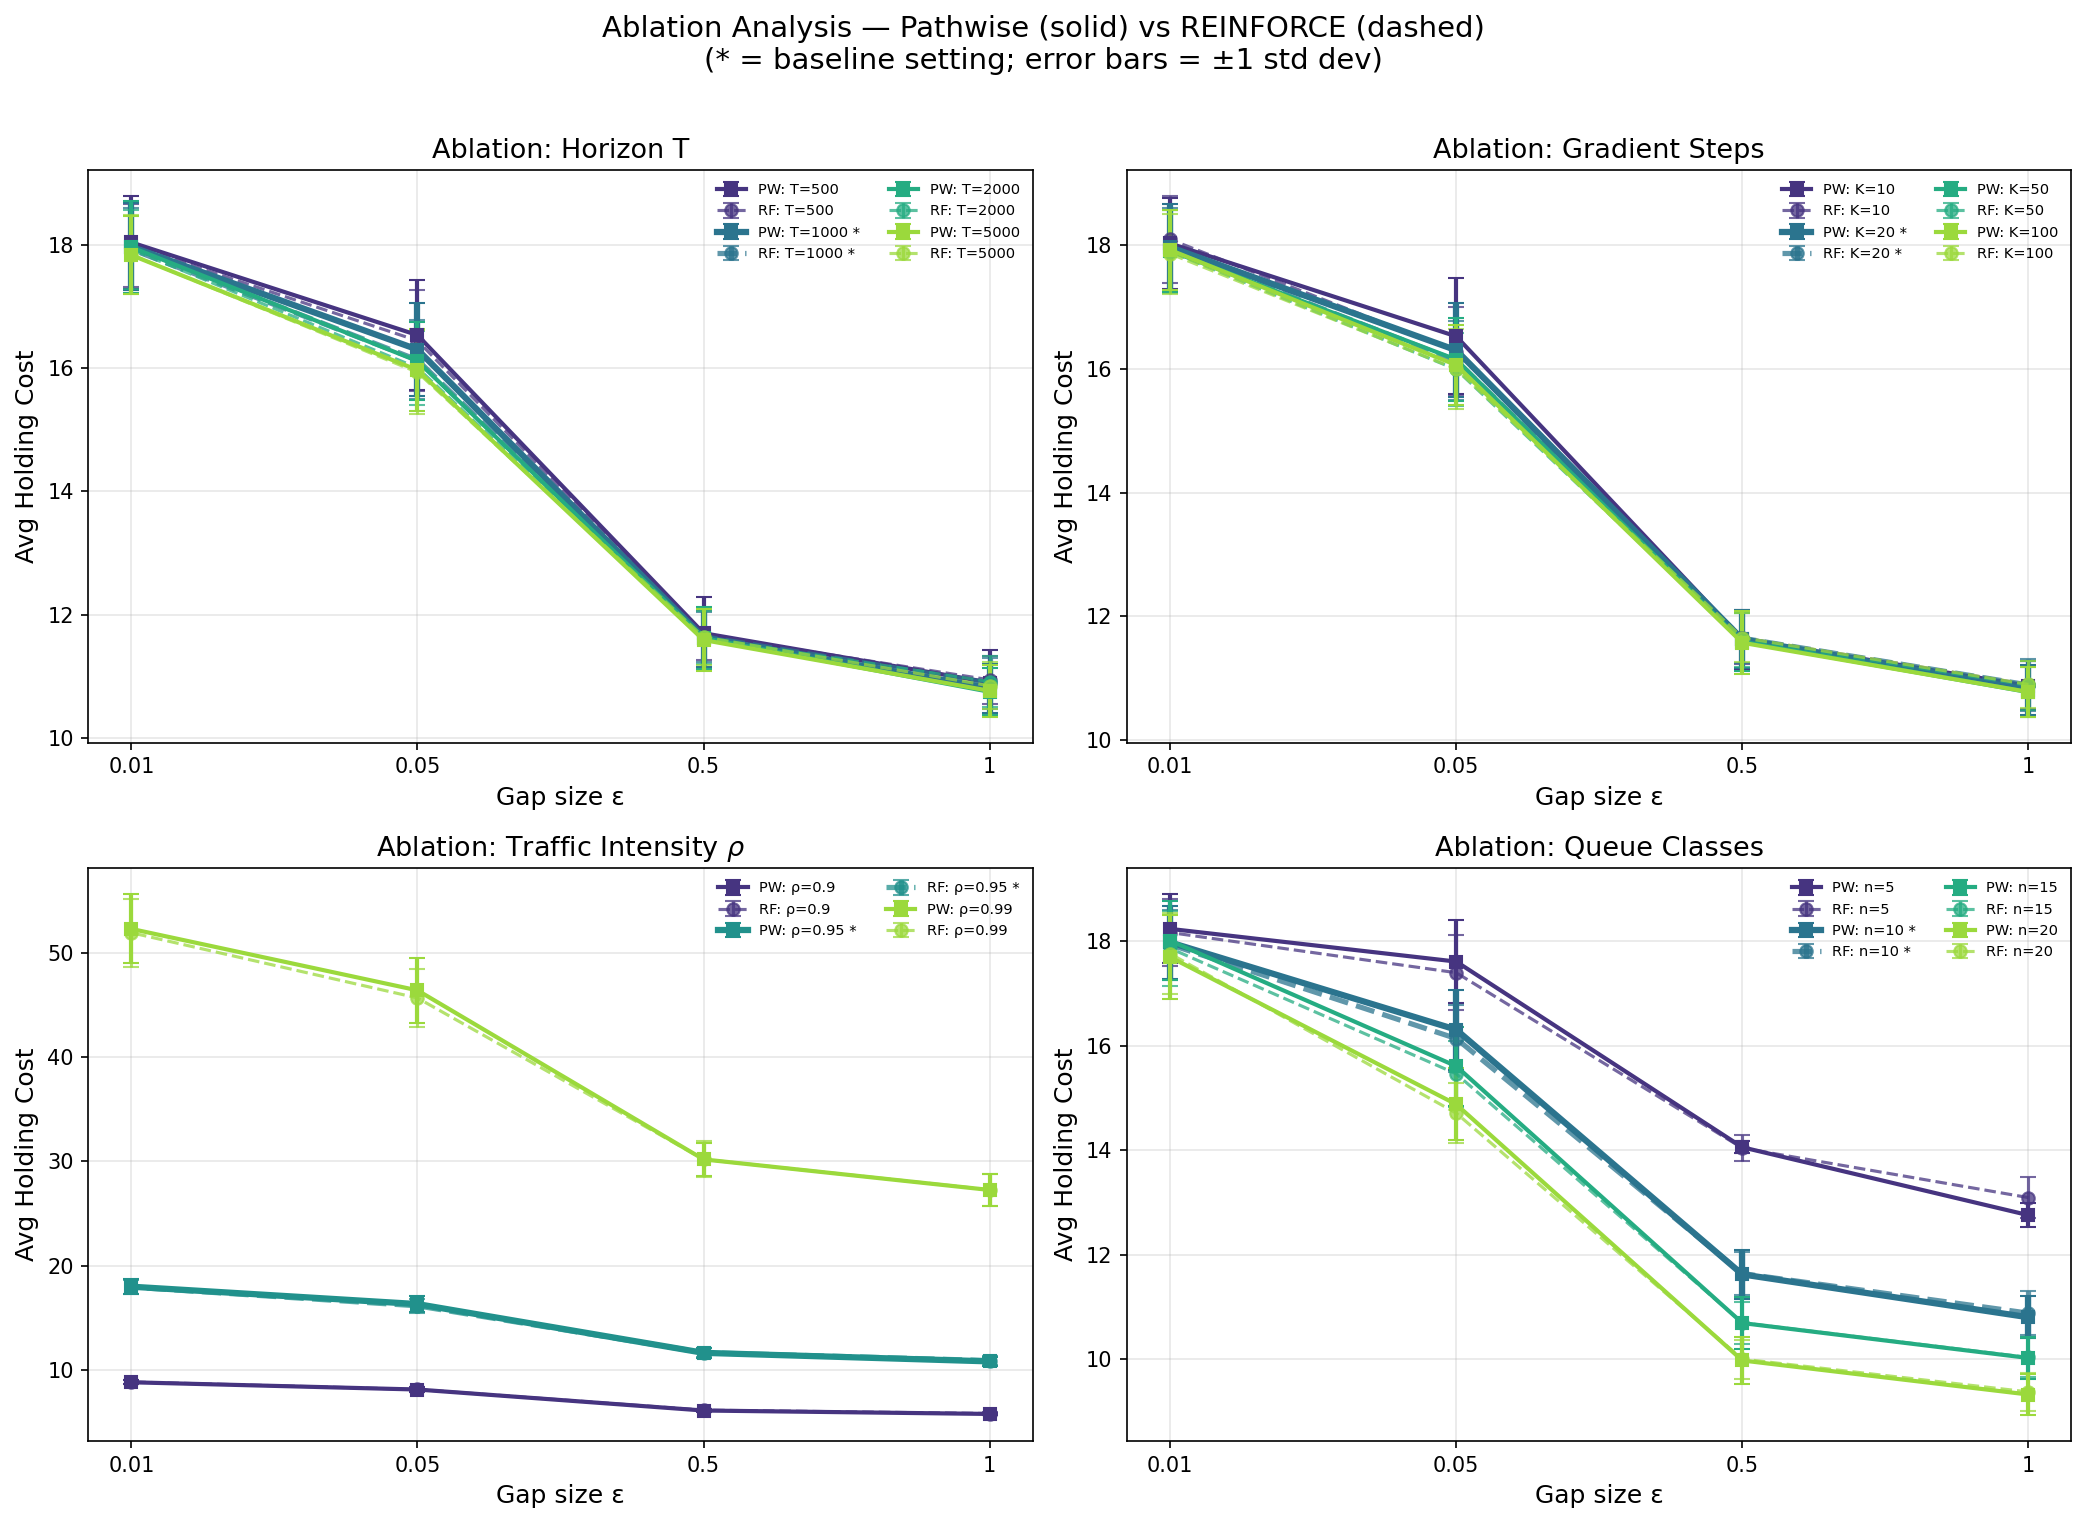
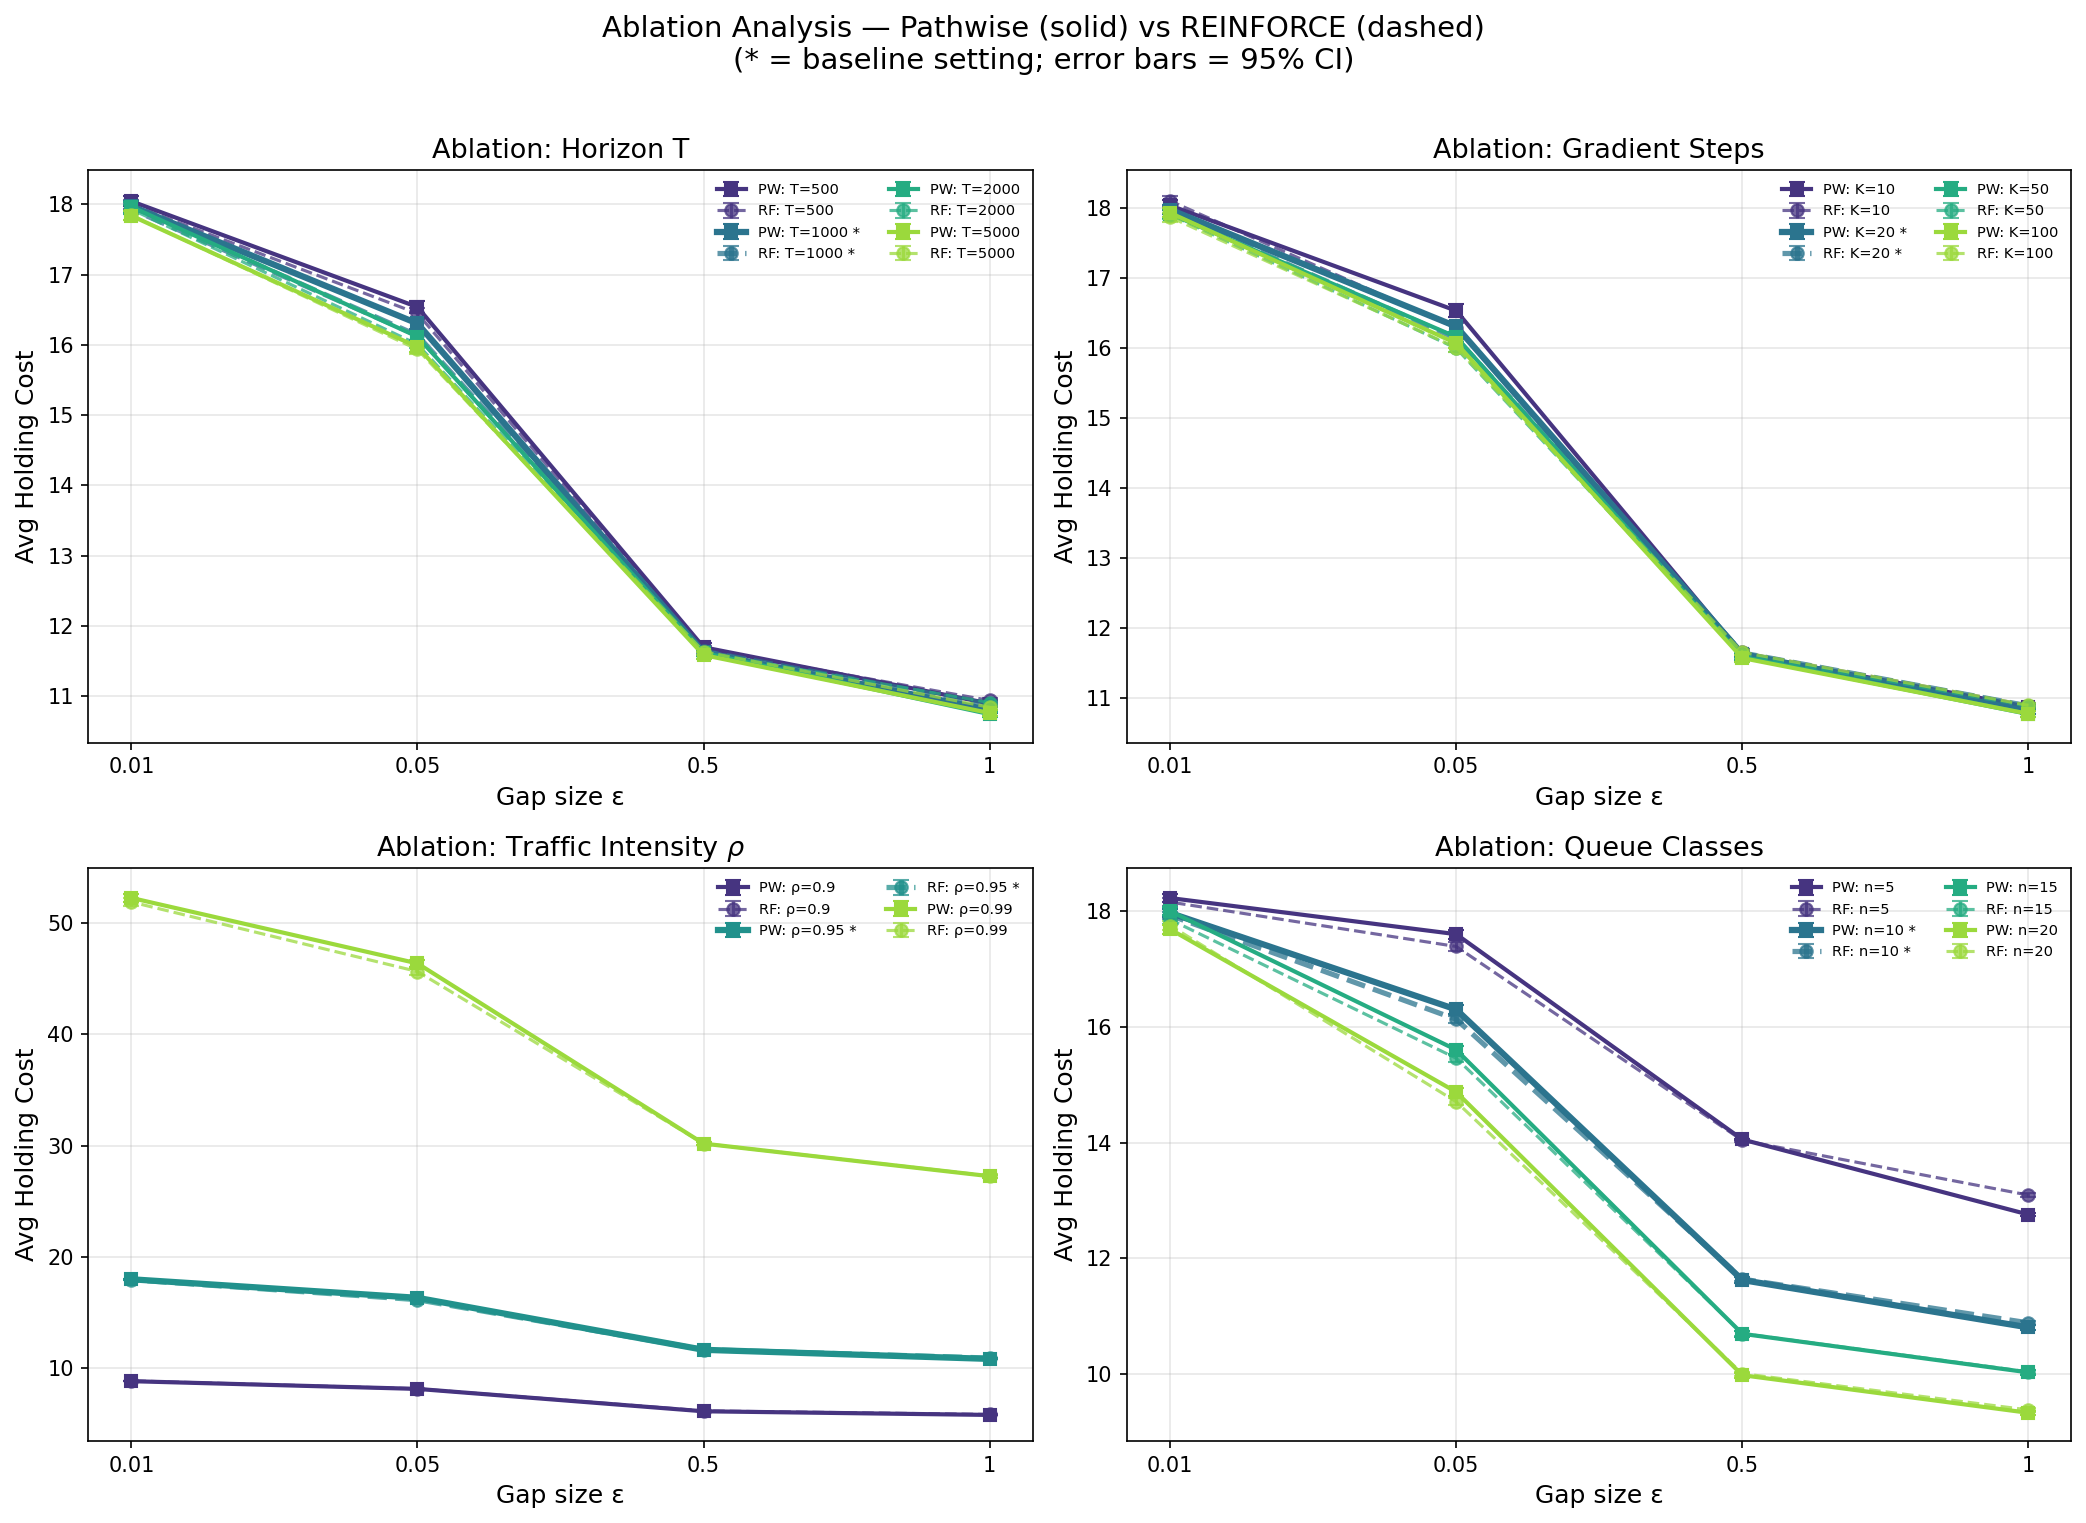
new plots

diff --git a/cmu/step_rule_K100_comparison.py b/cmu/step_rule_K100_comparison.py
@@ -26,16 +26,16 @@ def load_json(filename):
 
 
 def get_costs(data, alpha, gaps):
-    means, stds = [], []
+    means, ci = [], []
     for gap in gaps:
         if alpha in data and gap in data[alpha]:
             costs = np.array([r['avg_cost'] for r in data[alpha][gap]])
             means.append(np.mean(costs))
-            stds.append(np.std(costs))
+            ci.append(1.96 * np.std(costs) / np.sqrt(len(costs)))
         else:
             means.append(np.nan)
-            stds.append(0)
-    return np.array(means), np.array(stds)
+            ci.append(0)
+    return np.array(means), np.array(ci)
 
 
 def best_alpha_costs(data, gaps):
@@ -50,8 +50,8 @@ def best_alpha_costs(data, gaps):
             m = np.mean(costs)
             if m < best_mean:
                 best_mean = m
-                sd = np.std(costs)
-                best = (m, sd, alpha)
+                ci = 1.96 * np.std(costs) / np.sqrt(len(costs))
+                best = (m, ci, alpha)
         if best is not None:
             results[gap] = best
     return results
@@ -112,7 +112,7 @@ ax.set_xticklabels([str(g) for g in GAPS_FLOAT])
 ax.invert_xaxis()
 ax.set_xlabel('Gap size ε', fontsize=13)
 ax.set_ylabel('Holding cost of the avg iterate', fontsize=13)
-ax.set_title('K=20 vs K=100: Pathwise Step Rules (best α, ±1 std dev)', fontsize=14)
+ax.set_title('K=20 vs K=100: Pathwise Step Rules (best α, 95% CI)', fontsize=14)
 ax.legend(frameon=False, fontsize=7.5, loc='upper right')
 ax.grid(True, alpha=0.3)
 plt.tight_layout()
@@ -165,7 +165,7 @@ for ri, rule in enumerate(rules):
     ax.legend(fontsize=6, frameon=False, ncol=2)
     ax.grid(True, alpha=0.3)
 
-fig.suptitle('K=100 Per-Rule: PW (solid) vs RF (dashed) at matching α (±1 std dev)', fontsize=14, y=1.02)
+fig.suptitle('K=100 Per-Rule: PW (solid) vs RF (dashed) at matching α (95% CI)', fontsize=14, y=1.02)
 plt.tight_layout()
 plt.savefig(os.path.join(CMU_DIR, 'step_rule_K100_per_rule.png'), dpi=150, bbox_inches='tight')
 plt.close()
@@ -249,7 +249,7 @@ ax.set_xticklabels([str(g) for g in GAPS_FLOAT])
 ax.invert_xaxis()
 ax.set_xlabel('Gap size ε', fontsize=13)
 ax.set_ylabel('Holding cost of the avg iterate', fontsize=13)
-ax.set_title('K=100: All Methods — PW vs RF (best α, ±1 std dev)', fontsize=14)
+ax.set_title('K=100: All Methods — PW vs RF (best α, 95% CI)', fontsize=14)
 ax.legend(frameon=False, fontsize=7, loc='upper right', ncol=2)
 ax.grid(True, alpha=0.3)
 plt.tight_layout()

diff --git a/cmu/ablation_plots.py b/cmu/ablation_plots.py
@@ -76,9 +76,9 @@ for idx, (axis_name, axis_values) in enumerate(ABLATIONS.items()):
         rf_by_gap = get_costs_per_gap(rf_data)
 
         pw_means = [np.mean(pw_by_gap[g]) for g in GAPS]
-        pw_std = [np.std(pw_by_gap[g]) for g in GAPS]
+        pw_std = [1.96 * np.std(pw_by_gap[g]) / np.sqrt(len(pw_by_gap[g])) for g in GAPS]
         rf_means = [np.mean(rf_by_gap[g]) for g in GAPS]
-        rf_std = [np.std(rf_by_gap[g]) for g in GAPS]
+        rf_std = [1.96 * np.std(rf_by_gap[g]) / np.sqrt(len(rf_by_gap[g])) for g in GAPS]
 
         lbl = AXIS_VAL_FMT[axis_name](val)
         is_baseline = (val == BASELINE[axis_name])
@@ -103,7 +103,7 @@ for idx, (axis_name, axis_values) in enumerate(ABLATIONS.items()):
 
 fig.suptitle(
     'Ablation Analysis — Pathwise (solid) vs REINFORCE (dashed)\n'
-    '(* = baseline setting; error bars = ±1 std dev)',
+    '(* = baseline setting; error bars = 95% CI)',
     fontsize=14, y=1.01
 )
 plt.tight_layout()
@@ -185,9 +185,9 @@ for row, (axis_name, axis_values) in enumerate(ABLATIONS.items()):
                 pw_c = np.array([r['avg_cost'] for r in pw_data[alpha][gap]])
                 rf_c = np.array([r['avg_cost'] for r in rf_data[alpha][gap]])
                 pw_means.append(np.mean(pw_c))
-                pw_std.append(np.std(pw_c))
+                pw_std.append(1.96 * np.std(pw_c) / np.sqrt(len(pw_c)))
                 rf_means.append(np.mean(rf_c))
-                rf_std.append(np.std(rf_c))
+                rf_std.append(1.96 * np.std(rf_c) / np.sqrt(len(rf_c)))
 
             pw_means = np.array(pw_means)
             pw_std = np.array(pw_std)

diff --git a/cmu/step_rule_comparison.py b/cmu/step_rule_comparison.py
@@ -49,17 +49,17 @@ def load_json(filename):
 
 
 def get_costs(data, alpha, gaps):
-    """Return (means, stds) arrays for a given alpha across gaps."""
-    means, stds = [], []
+    """Return (means, ci95) arrays for a given alpha across gaps."""
+    means, ci = [], []
     for gap in gaps:
         if alpha in data and gap in data[alpha]:
             costs = np.array([r['avg_cost'] for r in data[alpha][gap]])
             means.append(np.mean(costs))
-            stds.append(np.std(costs))
+            ci.append(1.96 * np.std(costs) / np.sqrt(len(costs)))
         else:
             means.append(np.nan)
-            stds.append(0)
-    return means, stds
+            ci.append(0)
+    return means, ci
 
 
 # ── Load all data ──
@@ -130,7 +130,7 @@ for ai, alpha in enumerate(rf_alphas):
         ax.set_ylabel('Holding cost of the avg iterate', fontsize=12)
 
 fig.suptitle(
-    'Per-α: REINFORCE (B=100) vs Pathwise Step Rules — 10-class (±1 std dev)',
+    'Per-α: REINFORCE (B=100) vs Pathwise Step Rules — 10-class (95% CI)',
     fontsize=14, y=1.02
 )
 plt.tight_layout()
@@ -243,7 +243,7 @@ for ri in range(n_rules_total, nrows * ncols):
 
 fig.suptitle(
     'Per-Rule Breakdown — PW (solid) vs RF (dashed) at matching α\n'
-    '10-class, ±1 std dev',
+    '10-class, 95% CI',
     fontsize=14, y=1.02
 )
 plt.tight_layout()

diff --git a/cmu/fig9_1_errorbars.py b/cmu/fig9_1_errorbars.py
@@ -171,7 +171,7 @@ for alpha in ALPHAS:
         if gap in pw[alpha]:
             pw_costs = np.array([r['avg_cost'] for r in pw[alpha][gap]])
             pw_means.append(np.mean(pw_costs))
-            pw_ci.append(np.std(pw_costs))
+            pw_ci.append(1.96 * np.std(pw_costs) / np.sqrt(len(pw_costs)))
         else:
             pw_means.append(np.nan)
             pw_ci.append(0)
@@ -179,7 +179,7 @@ for alpha in ALPHAS:
         if gap in rf[alpha]:
             rf_costs = np.array([r['avg_cost'] for r in rf[alpha][gap]])
             rf_means.append(np.mean(rf_costs))
-            rf_ci.append(np.std(rf_costs))
+            rf_ci.append(1.96 * np.std(rf_costs) / np.sqrt(len(rf_costs)))
         else:
             rf_means.append(np.nan)
             rf_ci.append(0)
@@ -195,7 +195,7 @@ ax.set_xticklabels([str(float(g)) for g in gaps_sorted])
 ax.invert_xaxis()
 ax.set_xlabel('Gap size ε', fontsize=12)
 ax.set_ylabel('Holding cost of the avg iterate', fontsize=12)
-ax.set_title('Fig 9.2 — 5-class multiserver (1000 runs, ±1 std dev)', fontsize=13)
+ax.set_title('Fig 9.2 — 5-class multiserver (1000 runs, 95% CI)', fontsize=13)
 ax.legend(frameon=False, fontsize=8, ncol=2)
 ax.grid(True, alpha=0.3)
 plt.tight_layout()

diff --git a/cmu/cmu_graph.py b/cmu/cmu_graph.py
@@ -89,8 +89,10 @@ for alpha in alphas:
             rf10_count += 1
             rf10_cost_list.append(x['avg_cost'])
 
-        pw10_results.append({'alpha':alpha, 'gap': gap, 'avg_cost': np.mean(pw10_cost_list), 'cost_std': np.std(pw10_cost_list)})
-        rf10_results.append({'alpha':alpha, 'gap': gap, 'avg_cost': np.mean(rf10_cost_list), 'cost_std': np.std(rf10_cost_list)})
+        pw_n = len(pw10_cost_list)
+        rf_n = len(rf10_cost_list)
+        pw10_results.append({'alpha':alpha, 'gap': gap, 'avg_cost': np.mean(pw10_cost_list), 'cost_std': 1.96 * np.std(pw10_cost_list) / np.sqrt(pw_n)})
+        rf10_results.append({'alpha':alpha, 'gap': gap, 'avg_cost': np.mean(rf10_cost_list), 'cost_std': 1.96 * np.std(rf10_cost_list) / np.sqrt(rf_n)})
 
 
 fig, ax = plt.subplots(figsize=(7.5, 4.5))
